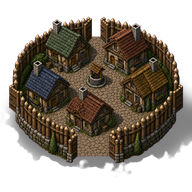
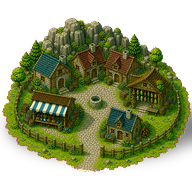
art: the three overworld sprites are regenerated from the finished town plates
The shipped millbrook and greenhollow sprites still showed the tall timber palisade and
dark packed-earth yard of the design the owner scrapped, against towns repainted with
low fences and pale cobble. LANDMARK-SPRITE-CONTRACT.md's 2026-08-01 amendment makes the
binding rule consistency with the town screen, so all three are redrawn from their own
finished plate: millbrook's watermill and cream stall, greenhollow's rock outcrop and
striped awning, Port Sapphire's jetties and quay. They were two near-identical discs
before; each now reads as the village you walk into.

ANCHORS RE-MEASURED, WHICH IS THE PART THAT WOULD HAVE BITTEN. dq-tiles.js places each
sprite with setOrigin(lm.anchor/size) from landmarks.json, not from the image, so a new
silhouette placed by the old anchor floats off its pad. greenhollow's moved 9 px and
Port Sapphire's 12; millbrook's happened not to move. contactWidth/contactBand are
re-measured with them, though only `anchor`, `cell`, `size` and `slug` are read at
runtime -- the other two drive design-time composites.

PORT SAPPHIRE NEEDED A TIGHTER CHROMA KEY. At the default --tol 88 it kept 235 magenta
pixels, three times the other two, as a visible fringe where the magenta field met the
dark harbour water -- the two are close in chroma and that town is the only one with a
big blue mass at its edge. Swept the tolerance: 130 halves the fringe to 103 px, in line
with millbrook's 76 and greenhollow's 62, and leaves the water untouched at ~985 px
[…]

diff --git a/design/act1-towns/millbrook/landmark-brief.md b/design/act1-towns/millbrook/landmark-brief.md
@@ -1,0 +1,40 @@
+DO THIS YOURSELF, one generation call, do not dispatch a sub-agent. Produce the image
+and stop.
+
+Draw ONE small town as a 3/4 top-down diorama, in hand-drawn hard-edged pixel art, standing alone
+on a field of PURE MAGENTA (255,0,255).
+
+THE INPUT IMAGE IS THE TOWN ITSELF, seen straight down. It is your reference for WHAT THIS PLACE IS
+MADE OF -- its buildings, its roof colours, its fence, its paving, its grass, its light. Match all of
+that exactly. It is NOT a layout to trace: you are drawing the same town from a slightly tilted 3/4
+view, compact enough to read at a glance, so roofs and building fronts are both visible.
+
+THIS TOWN IS a mill village: a working watermill with a big wooden wheel, cottages with steep shingled roofs in slate blue, terracotta, green, purple and gold thatch, a covered market stall, and a stone well in the yard.
+
+THE PERIMETER: a LOW stone-and-timber fence, waist height, NOT a tall palisade.
+
+ONE ENTRANCE ONLY, on the SOUTH side, and it must read unmistakably as the way in -- a gap in the
+fence with posts and an open gateway, with the lane running out through it. The perimeter is
+continuous everywhere else. Do not draw a second gate.
+
+THE GROUND PAD. The town sits on a rounded pad of its own ground -- grass and the pale paving of its
+lanes -- whose edge fades naturally into the magenta. No hard circular cut, no plinth, no floating.
+Cast a short contact shadow down and to the RIGHT beneath the buildings and the pad, so it will sit
+on terrain rather than float above it.
+
+MAGENTA IS THE BACKGROUND AND NOTHING ELSE. Use no magenta, pink, violet or plum anywhere in the
+artwork -- it is keyed out to transparency, so any magenta inside the town punches a hole in it.
+
+LIGHT AND PALETTE. One upper-left sun, short soft shadows, warm late-morning daylight, exactly as in
+the input. Reproduce its greens, its paving and its roof colours; do not darken, brighten, warm or
+cool them.
+
+THE FINISH. Crisp definite boundaries between materials. Shading in discrete flat steps, two or
+three values per material, dithering where a transition is needed. Individual roof tiles, individual
+cobbles, individual fence posts, distinct leaf clumps. No airbrushed gradients, no blur, no bloom,
+no soft focus, no photographic texture.
+
+FORBIDDEN: people, animals, banners, signage, text, labels, UI, health bars, any border or frame.
+
+OUTPUT: one RGB PNG. Print its absolute path on a line of its own. Do not delete it and do not write
+anywhere under /tmp.

diff --git a/design/act1-towns/greenhollow/landmark-brief.md b/design/act1-towns/greenhollow/landmark-brief.md
@@ -1,0 +1,40 @@
+DO THIS YOURSELF, one generation call, do not dispatch a sub-agent. Produce the image
+and stop.
+
+Draw ONE small town as a 3/4 top-down diorama, in hand-drawn hard-edged pixel art, standing alone
+on a field of PURE MAGENTA (255,0,255).
+
+THE INPUT IMAGE IS THE TOWN ITSELF, seen straight down. It is your reference for WHAT THIS PLACE IS
+MADE OF -- its buildings, its roof colours, its fence, its paving, its grass, its light. Match all of
+that exactly. It is NOT a layout to trace: you are drawing the same town from a slightly tilted 3/4
+view, compact enough to read at a glance, so roofs and building fronts are both visible.
+
+THIS TOWN IS a forest village under a rock outcrop: stone-and-timber cottages with slate blue and terracotta roofs, a market stall under a blue-and-white striped awning, a herbalist's cottage, and a stone well in the yard.
+
+THE PERIMETER: a LOW timber rail fence, waist height, NOT a tall palisade.
+
+ONE ENTRANCE ONLY, on the SOUTH side, and it must read unmistakably as the way in -- a gap in the
+fence with posts and an open gateway, with the lane running out through it. The perimeter is
+continuous everywhere else. Do not draw a second gate.
+
+THE GROUND PAD. The town sits on a rounded pad of its own ground -- grass and the pale paving of its
+lanes -- whose edge fades naturally into the magenta. No hard circular cut, no plinth, no floating.
+Cast a short contact shadow down and to the RIGHT beneath the buildings and the pad, so it will sit
+on terrain rather than float above it.
+
+MAGENTA IS THE BACKGROUND AND NOTHING ELSE. Use no magenta, pink, violet or plum anywhere in the
+artwork -- it is keyed out to transparency, so any magenta inside the town punches a hole in it.
+
+LIGHT AND PALETTE. One upper-left sun, short soft shadows, warm late-morning daylight, exactly as in
+the input. Reproduce its greens, its paving and its roof colours; do not darken, brighten, warm or
+cool them.
+
+THE FINISH. Crisp definite boundaries between materials. Shading in discrete flat steps, two or
+three values per material, dithering where a transition is needed. Individual roof tiles, individual
+cobbles, individual fence posts, distinct leaf clumps. No airbrushed gradients, no blur, no bloom,
+no soft focus, no photographic texture.
+
+FORBIDDEN: people, animals, banners, signage, text, labels, UI, health bars, any border or frame.
+
+OUTPUT: one RGB PNG. Print its absolute path on a line of its own. Do not delete it and do not write
+anywhere under /tmp.

diff --git a/design/act1-towns/portSapphire/landmark-brief.md b/design/act1-towns/portSapphire/landmark-brief.md
@@ -1,0 +1,40 @@
+DO THIS YOURSELF, one generation call, do not dispatch a sub-agent. Produce the image
+and stop.
+
+Draw ONE small town as a 3/4 top-down diorama, in hand-drawn hard-edged pixel art, standing alone
+on a field of PURE MAGENTA (255,0,255).
+
+THE INPUT IMAGE IS THE TOWN ITSELF, seen straight down. It is your reference for WHAT THIS PLACE IS
+MADE OF -- its buildings, its roof colours, its fence, its paving, its grass, its light. Match all of
+that exactly. It is NOT a layout to trace: you are drawing the same town from a slightly tilted 3/4
+view, compact enough to read at a glance, so roofs and building fronts are both visible.
+
+THIS TOWN IS a harbour town: cottages around a stone well, a market stall under a striped awning, and along the SOUTH edge a working waterfront of timber jetties, moored rowing boats, crates and mooring posts.
+
+THE PERIMETER: no wall on the south side, where the sea is the boundary.
+
+ONE ENTRANCE ONLY, on the NORTH side, and it must read unmistakably as the way in -- a gap in the
+fence with posts and an open gateway, with the lane running out through it. The perimeter is
+continuous everywhere else. Do not draw a second gate.
+
+THE GROUND PAD. The town sits on a rounded pad of its own ground -- grass and the pale paving of its
+lanes -- whose edge fades naturally into the magenta. No hard circular cut, no plinth, no floating.
+Cast a short contact shadow down and to the RIGHT beneath the buildings and the pad, so it will sit
+on terrain rather than float above it.
+
+MAGENTA IS THE BACKGROUND AND NOTHING ELSE. Use no magenta, pink, violet or plum anywhere in the
+artwork -- it is keyed out to transparency, so any magenta inside the town punches a hole in it.
+
+LIGHT AND PALETTE. One upper-left sun, short soft shadows, warm late-morning daylight, exactly as in
+the input. Reproduce its greens, its paving and its roof colours; do not darken, brighten, warm or
+cool them.
+
+THE FINISH. Crisp definite boundaries between materials. Shading in discrete flat steps, two or
+three values per material, dithering where a transition is needed. Individual roof tiles, individual
+cobbles, individual fence posts, distinct leaf clumps. No airbrushed gradients, no blur, no bloom,
+no soft focus, no photographic texture.
+
+FORBIDDEN: people, animals, banners, signage, text, labels, UI, health bars, any border or frame.
+
+OUTPUT: one RGB PNG. Print its absolute path on a line of its own. Do not delete it and do not write
+anywhere under /tmp.
